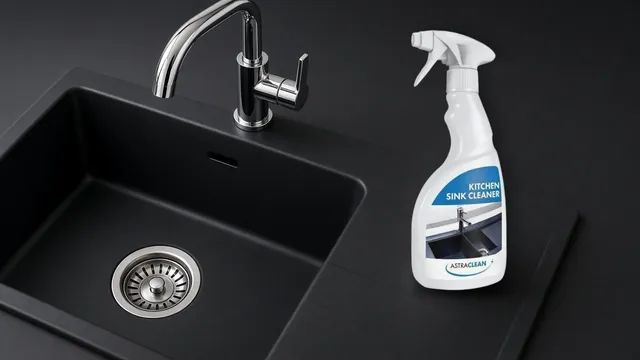
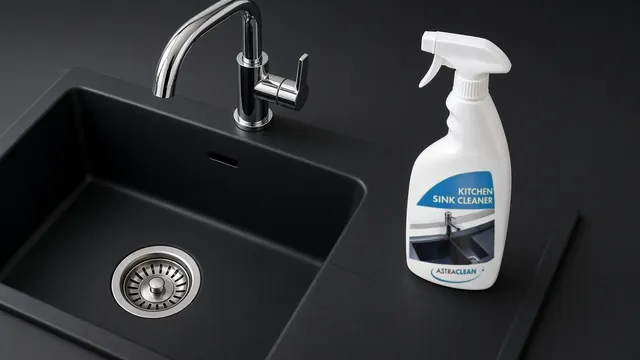
Lifestyle shot: restore the AI scene's bottle pose/perspective on the draining board (v2 upright packshot looked pasted on) and print Adam's real label artwork onto it (blue 'KITCHEN SINK CLEANER' band, sink photo, ASTRACLEAN swoosh; perspective-warped with cylindrical bow, relit with the bottle's o

Changed region(s): [[0.625, 0.0611, 0.8125, 0.825]]

diff --git a/index.html b/index.html
@@ -357,7 +357,7 @@
 <section id="about"><div class="wrap narrow center">
   <h2>About Astraclean UK</h2>
   <p>Astraclean is a specialist cleaner for composite, granite and quartz kitchen sinks, made in the UK. Astraclean UK is a small, independent UK business run by Adam Marshall in Dewsbury, West Yorkshire. Got a question about your sink? Just send us a message – we're happy to help.</p>
-  <figure class="lifestyle-fig" data-lifestyle><picture><source type="image/webp" srcset="/assets/img/astraclean-lifestyle-black-composite-sink-640.webp?v=20261009c 640w, /assets/img/astraclean-lifestyle-black-composite-sink-960.webp?v=20261009c 960w, /assets/img/astraclean-lifestyle-black-composite-sink-1280.webp?v=20261009c 1280w" sizes="(max-width: 720px) calc(100vw - 48px), 640px"><img src="/assets/img/astraclean-lifestyle-black-composite-sink-960.jpg?v=20261009c" srcset="/assets/img/astraclean-lifestyle-black-composite-sink-640.jpg?v=20261009c 640w, /assets/img/astraclean-lifestyle-black-composite-sink-960.jpg?v=20261009c 960w, /assets/img/astraclean-lifestyle-black-composite-sink-1280.jpg?v=20261009c 1280w" sizes="(max-width: 720px) calc(100vw - 48px), 640px" width="1280" height="720" loading="lazy" decoding="async" alt="Lifestyle product shot: Astraclean Kitchen Sink Cleaner spray bottle on the draining board of a black composite kitchen sink"></picture><figcaption>Lifestyle product shot.</figcaption></figure>
+  <figure class="lifestyle-fig" data-lifestyle><picture><source type="image/webp" srcset="/assets/img/astraclean-lifestyle-black-composite-sink-640.webp?v=20261009d 640w, /assets/img/astraclean-lifestyle-black-composite-sink-960.webp?v=20261009d 960w, /assets/img/astraclean-lifestyle-black-composite-sink-1280.webp?v=20261009d 1280w" sizes="(max-width: 720px) calc(100vw - 48px), 640px"><img src="/assets/img/astraclean-lifestyle-black-composite-sink-960.jpg?v=20261009d" srcset="/assets/img/astraclean-lifestyle-black-composite-sink-640.jpg?v=20261009d 640w, /assets/img/astraclean-lifestyle-black-composite-sink-960.jpg?v=20261009d 960w, /assets/img/astraclean-lifestyle-black-composite-sink-1280.jpg?v=20261009d 1280w" sizes="(max-width: 720px) calc(100vw - 48px), 640px" width="1280" height="720" loading="lazy" decoding="async" alt="Lifestyle product shot: Astraclean Kitchen Sink Cleaner spray bottle on the draining board of a black composite kitchen sink"></picture><figcaption>Lifestyle product shot.</figcaption></figure>
 </div></section>
 
 <section id="delivery" class="bg-soft"><div class="wrap">
